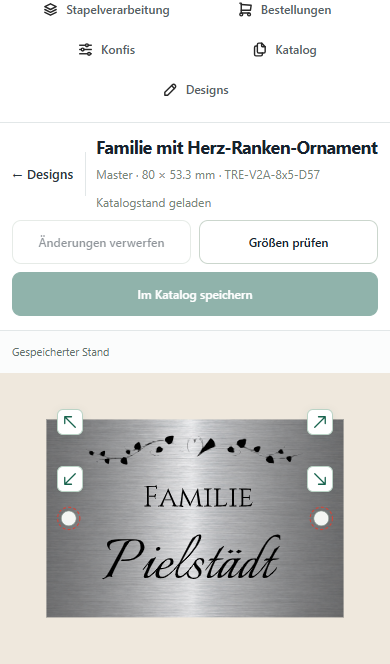
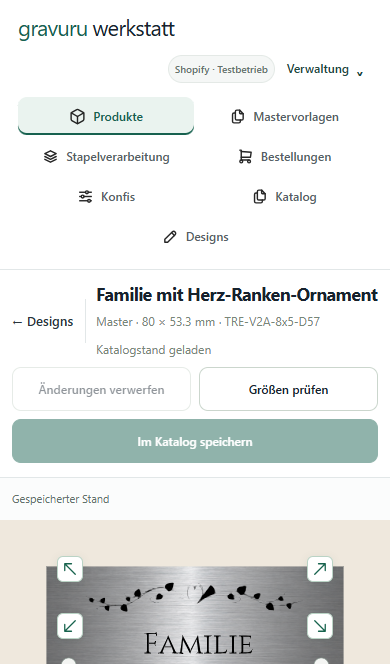
docs: refresh catalog editor evidence without mechanical rings
Record 27 passing preview tests and rerun desktop/mobile acceptance on the final code. Replace screenshots, source hashes and catalogue-integrity evidence.

diff --git a/docs/handoffs/2026-10-24-paket-l-bericht.md b/docs/handoffs/2026-10-24-paket-l-bericht.md
@@ -1,10 +1,10 @@
 # Paket L · Designs im Dashboard bearbeiten · 24.10.2026
 
-Basis: Code main 196de81e92d86d997f60c3a91732fe4f2b1a12ef, Katalog main 27d46beeae8cd91748ae8096f0bb63a4c550573a. Branch: dev/dashboard-bearbeiten-20261024-astra. Finaler Code: f3192223da07959a952b52679ada3cd52efdc81a. PR gegen main; kein Merge und kein Livezugriff.
+Basis: Code main 196de81e92d86d997f60c3a91732fe4f2b1a12ef, Katalog main 27d46beeae8cd91748ae8096f0bb63a4c550573a. Branch: dev/dashboard-bearbeiten-20261024-astra. Finaler Code: dbf3addf54167ce1a4381275fa8f24d9ec4b12b0. PR gegen main; kein Merge und kein Livezugriff.
 
 ## Was und warum
 
-Lieferform-2-Designs lassen sich über **Bearbeiten** direkt aus der Dashboardzeile im vorhandenen Werkstatteditor öffnen. Dafür entsteht kein Konfi-Produkt. Der Editor erhält Familie, Materialstruktur, Form und Bohrungen über denselben familyProductConfig-Weg wie der Import. Seine Text-/Motivwerkzeuge, Hilfslinien und das Einrasten werden wiederverwendet. Die Auswahl verwendet die vier originalen grünen Konfi-Pfeile aus einem gemeinsamen Helfer: identische Form, Position und proportionale Größenänderung, kein blauer Auswahlrahmen. Der Kunden-Konfi behält seine CSS-Darstellung. Ein reiner Innenabstand der Katalog-Gestaltungsfläche hält auch bei Randmotiven die vollständigen 42-px-Trefferflächen sichtbar; Masterwerte und SVG-Geometrie bleiben dabei gleich. Die Knöpfe bleiben bei Vorschauwechseln erhalten, damit wiederholte Tastaturbedienung den Fokus behält.
+Lieferform-2-Designs lassen sich über **Bearbeiten** direkt aus der Dashboardzeile im vorhandenen Werkstatteditor öffnen. Dafür entsteht kein Konfi-Produkt. Der Editor erhält Familie, Materialstruktur, Form und Bohrungen über denselben familyProductConfig-Weg wie der Import. Seine Text-/Motivwerkzeuge, Hilfslinien und das Einrasten werden wiederverwendet. Die Auswahl verwendet die vier originalen grünen Konfi-Pfeile aus einem gemeinsamen Helfer: identische Form, Position und proportionale Größenänderung, kein blauer Auswahlrahmen. Der Kunden-Konfi behält seine CSS-Darstellung. Ein reiner Innenabstand der Katalog-Gestaltungsfläche hält auch bei Randmotiven die vollständigen 42-px-Trefferflächen sichtbar; Masterwerte und SVG-Geometrie bleiben dabei gleich. Die Knöpfe bleiben bei Vorschauwechseln erhalten, damit wiederholte Tastaturbedienung den Fokus behält. Die roten mechanischen Hilfsringe um Bohrungen sind im Katalogeditor ausgeblendet. Echte Bohrungen, Gestaltungsrand und interne Konfliktprüfungen bleiben erhalten; andere Vorschauen behalten ihre bisherigen Einstellungen.
 
 Bearbeitbar sind Textinhalt, Katalogschrift, Größe, Position, Ausrichtung und Laufweite, neue/entfernte Texte sowie Position, proportionale Größe und Entfernung bestehender Motive. Bestehende Fotofelder und Hilfselemente bleiben unverändert; neue Motive gehören nicht zu dieser Stufe. Die Vorschau nutzt die tatsächlichen Katalogglyphen. Schriftdateien sind nicht Teil dieses PRs.
 
@@ -38,6 +38,7 @@ Windows, Node 24.20.0, Python 3.12.14. Die Zähler überschneiden sich und werde
 | Vollständiger Durchlauf aller 183 damaligen Testdateien | 1.363 Tests: **1.355 bestanden, 1 Fehler, 7 Skips**, 0 Abbrüche |
 | Nachprüfung nach Konfi-Pfeilen und Fokusfix: alle 42 Konfi-Dateien plus 3 betroffene Werkstattdateien | **271/271 bestanden**, 0 Fehler/Skips/Abbrüche |
 | Nachprüfung nach Importkorrektur: Prepared, Platzierung, Writeback, Convert, Editor | **63 bestanden / 65 Tests**, 2 Link-Skips, 0 Fehler/Abbrüche |
+| Nachprüfung Bohrlochvorschau: Editor-Service, Editor- und Materialvorschau | **27/27 bestanden**, 0 Fehler/Skips/Abbrüche |
 | Zusätzliche gemeinsame Kontur-/Motivmodelle | **15/15 bestanden** |
 
 Der einzige Fehler im Vollauf war die unveränderte Assertion in prepared-design.test.mjs:52: Vorbereitete Kundenfelder müssen negative Laufweite weiterhin ablehnen. Die für LF2 nötige Erweiterung des gemeinsamen Textmodells hatte diese Grenze gelockert. Der Prepared-Import prüft sie jetzt ausdrücklich; die ursprüngliche Assertion sowie der authentifizierte HTTP-Weg bestehen im Nachlauf. LF2 behält negative Quell-Laufweite.
@@ -46,11 +47,11 @@ Der Quellenwächter des Vollaufs meldete drei zwischenzeitlich aktualisierte Tes
 
 Die sieben Skips betreffen zwei nicht verfügbare Link-Prüfungen und fünf bestehende Prüfungen privater POSIX-Rechte/Symlinks unter Windows. Sie zählen nicht als bestanden. Python-Pakete und der lokale HTTP-Testweg waren im Elternlauf verfügbar.
 
-Originalausgaben: [Vollauf](paket-l/vollauf.tap.txt), [Pfeile/Fokus](paket-l/pfeile-nachpruefung.txt), [Importkorrektur](paket-l/import-nachpruefung.txt). Der Vollauf wurde mit dem bestehenden scripts/test-portability/run-full-tests.mjs und --expected-files 183 --run ausgeführt; die Nachläufe mit Node --test --test-concurrency=1 und derselben Windows-Python-Vorladung. Der Bericht und pruefung.json nennen die Dateibereiche und Einzelzähler.
+Originalausgaben: [Vollauf](paket-l/vollauf.tap.txt), [Pfeile/Fokus](paket-l/pfeile-nachpruefung.txt), [Importkorrektur](paket-l/import-nachpruefung.txt), [Bohrlochvorschau](paket-l/bohrloch-nachpruefung.txt). Der Vollauf wurde mit dem bestehenden scripts/test-portability/run-full-tests.mjs und --expected-files 183 --run ausgeführt; die Nachläufe mit Node --test --test-concurrency=1 und derselben Windows-Python-Vorladung. Der Bericht und pruefung.json nennen die Dateibereiche und Einzelzähler.
 
 Rein lesender Rundlauf auf dem finalen Quellstand: **759 von 761 regulären Lieferform-2-Mastern bytegleich**; die zwei übrigen Fälle sind die genannten fehlenden Schriften. Die 780 SVG-Dateien aus Paket K enthalten zusätzlich technische/Testordner. Die Kontextprüfung löst 759 Familien auf; 757 Designs bestehen zusätzlich die Schriftprüfung. In 43 tatsächlichen Editoröffnungen einschließlich aller 24 Schieferdesigns und jeder regulären Serie waren 39 erfolgreich; die vier beschriebenen Fälle liefern erwartete 422. Das ist kein vollständiger Fit aller 761 Designs.
 
-Browser: lokaler Chrome mit Playwright, Desktop 1280 × 900 und iPhone-13-Geräteemulation (kein physisches iPhone). Ein künstlicher eingebetteter Admin-Rahmen verwendet den echten Token-/Händlerweg. Externe Anfragen sind gesperrt. Auf der privaten Katalogkopie liefen für beide Ansichten D57 öffnen → Name ändern → Motiv 1 mm bewegen → Größenprüfung → Speichern → Rückkehr → aktuelle Dashboardvorschau. JSON/SVG, Prüfsumme, Audit und Freigaberücksetzung wurden nachgelesen. Desktop zusätzlich Text hinzufügen/entfernen. An den originalen Konfi-Pfeilen werden echte Maus- bzw. Touch-Bewegungen, gleichproportionale Größe, unveränderter Mittelpunkt sowie Rückgängig/Wiederholen geprüft. Zwei aufeinanderfolgende Tastaturschritte und der Wechsel in ein anderes Feld sichern den Fokus ab. Für D57, Retro II D12 und Oval D13 wurden zusätzlich alle vier vollständigen Trefferflächen gegen die Handy-Gestaltungsfläche geprüft. iPhone zusätzlich Retro II D12 und Oval D13: Form, Bohrungen, proportionale Motivänderung und Fit.
+Browser: lokaler Chrome mit Playwright, Desktop 1280 × 900 und iPhone-13-Geräteemulation (kein physisches iPhone). Ein künstlicher eingebetteter Admin-Rahmen verwendet den echten Token-/Händlerweg. Externe Anfragen sind gesperrt. Auf der privaten Katalogkopie liefen für beide Ansichten D57 öffnen → Name ändern → Motiv 1 mm bewegen → Größenprüfung → Speichern → Rückkehr → aktuelle Dashboardvorschau. JSON/SVG, Prüfsumme, Audit und Freigaberücksetzung wurden nachgelesen. Desktop zusätzlich Text hinzufügen/entfernen. An den originalen Konfi-Pfeilen werden echte Maus- bzw. Touch-Bewegungen, gleichproportionale Größe, unveränderter Mittelpunkt sowie Rückgängig/Wiederholen geprüft. Zwei aufeinanderfolgende Tastaturschritte und der Wechsel in ein anderes Feld sichern den Fokus ab. Für D57, Retro II D12 und Oval D13 wurden zusätzlich alle vier vollständigen Trefferflächen gegen die Handy-Gestaltungsfläche geprüft. iPhone zusätzlich Retro II D12 und Oval D13: Form, Bohrungen, proportionale Motivänderung und Fit. Beide vollständigen Browserabläufe und die Handy-Bildnachweise wurden nach Ausblenden der roten Ringe erneut ausgeführt; jede aktualisierte Editorvorschau prüft deren Abwesenheit.
 
 Die vorherige Freigabe wurde ausschließlich als **synthetischer Ausgangszustand der privaten Testkopie** angelegt. Keine echte Designfreigabe und kein PATCH zur Freigabe. Alle Editor-API-Anfragen authentifiziert, keine Browserfehler, keine blockierten/externen Anfragen. Die echte Katalogquelle blieb unverändert: 1.843 Dateien per SHA-256 unverändert.
 
@@ -66,7 +67,7 @@ Weitere Nachweise: [Desktop-Fit](paket-l/desktop-02-fit.png), [Desktop-Vorschau]
 
 - [x] Einstieg ohne Import/Produktanlage, Desktop und Handy.
 - [x] Material, Rechteck/Oval/Retro-Kontur und Lochschutz aus vorhandener Familie.
-- [x] Originale Konfi-Pfeile; Maus, Touch, Tastatur, Rückgängig/Wiederholen.
+- [x] Originale Konfi-Pfeile; Maus, Touch, Tastatur, Rückgängig/Wiederholen; keine sichtbaren roten Bohrloch-Hilfsringe.
 - [x] Gemeinsamer Hin-/Rückweg, No-op, Text/Schrift/Hinzufügen/Entfernen, Motive.
 - [x] Größenprüfung und bewusstes Speichern eines nicht passenden Entwurfs.
 - [x] Freigaberücksetzung, Master-Audit, 409, Pfadschutz, Rollback/Prozessabbruch.

diff --git a/STATUS.md b/STATUS.md
@@ -1,7 +1,7 @@
 ## Paket L · Katalogdesigns direkt bearbeiten · 24.10.2026 (Codex / Astra)
 
-- Branch dev/dashboard-bearbeiten-20261024-astra, Code f3192223da07959a952b52679ada3cd52efdc81a auf main 196de81; Katalog 27d46be. Bearbeiten ohne Import/Produktanlage, Familienmaterial und Kontur/Bohrungen, originale Konfi-Pfeile auf Desktop/Handy; gemeinsamer JSON/SVG-Rückweg mit Journal, 409, Fit-Bestätigung, Freigaberücksetzung und Master-Audit.
-- Windows-Vollauf 183 Dateien: 1.355/1.363 bestanden, 1 behobene Prepared-Importregression, 7 Plattform-Skips. Nachläufe: 271/271 Konfi/Editor und 63/65 Import/Katalog (2 Link-Skips), zusätzlich 15/15 gemeinsame Modelle. Drei während des Vollaufs aktualisierte Testdateien sind im 271er-Nachlauf enthalten; kein zweiter Gesamtvollauf des finalen Commits. Keine offenen bekannten Testfehler.
+- Branch dev/dashboard-bearbeiten-20261024-astra, Code dbf3addf54167ce1a4381275fa8f24d9ec4b12b0 auf main 196de81; Katalog 27d46be. Bearbeiten ohne Import/Produktanlage, Familienmaterial und Kontur/Bohrungen, originale Konfi-Pfeile auf Desktop/Handy, echte Bohrungen ohne rote Hilfsringe; gemeinsamer JSON/SVG-Rückweg mit Journal, 409, Fit-Bestätigung, Freigaberücksetzung und Master-Audit.
+- Windows-Vollauf 183 Dateien: 1.355/1.363 bestanden, 1 behobene Prepared-Importregression, 7 Plattform-Skips. Nachläufe: 271/271 Konfi/Editor und 63/65 Import/Katalog (2 Link-Skips), zusätzlich 15/15 gemeinsame Modelle und 27/27 nach Ausblenden der Bohrloch-Hilfsringe. Drei während des Vollaufs aktualisierte Testdateien sind im 271er-Nachlauf enthalten; kein zweiter Gesamtvollauf des finalen Commits. Keine offenen bekannten Testfehler.
 - Lokale Browserprüfung: Desktop 1280 und iPhone-13-Emulation, echte Maus-/Touch-Pfeile, Tastaturfokus, Undo/Redo, D57 speichern/Preview/Audit/Freigaberücksetzung auf Privatkopie; Retro II D12 und Oval D13 samt vollständigen Tippflächen. 759/761 LF2-No-op bytegleich, zwei fehlende Schriften; 1.843 Original-Katalogdateien unverändert.
 - Offen: eindeutige Familienzuordnung für GT-S-22x14-D234/D235; zwei bereits ausgeblendete Designs mit fehlenden Schriften bleiben gesperrt. Keine Katalogänderung, Freigabe, Liveaktion oder Merge. [Bericht/Bilder](docs/handoffs/2026-10-24-paket-l-bericht.md), [Prüfnachweis](docs/handoffs/paket-l/pruefung.json). Nächster Schritt: Claude prüft den PR, führt Linux-Vollauf und eigene Stichprobe aus und entscheidet über den Merge.
 
